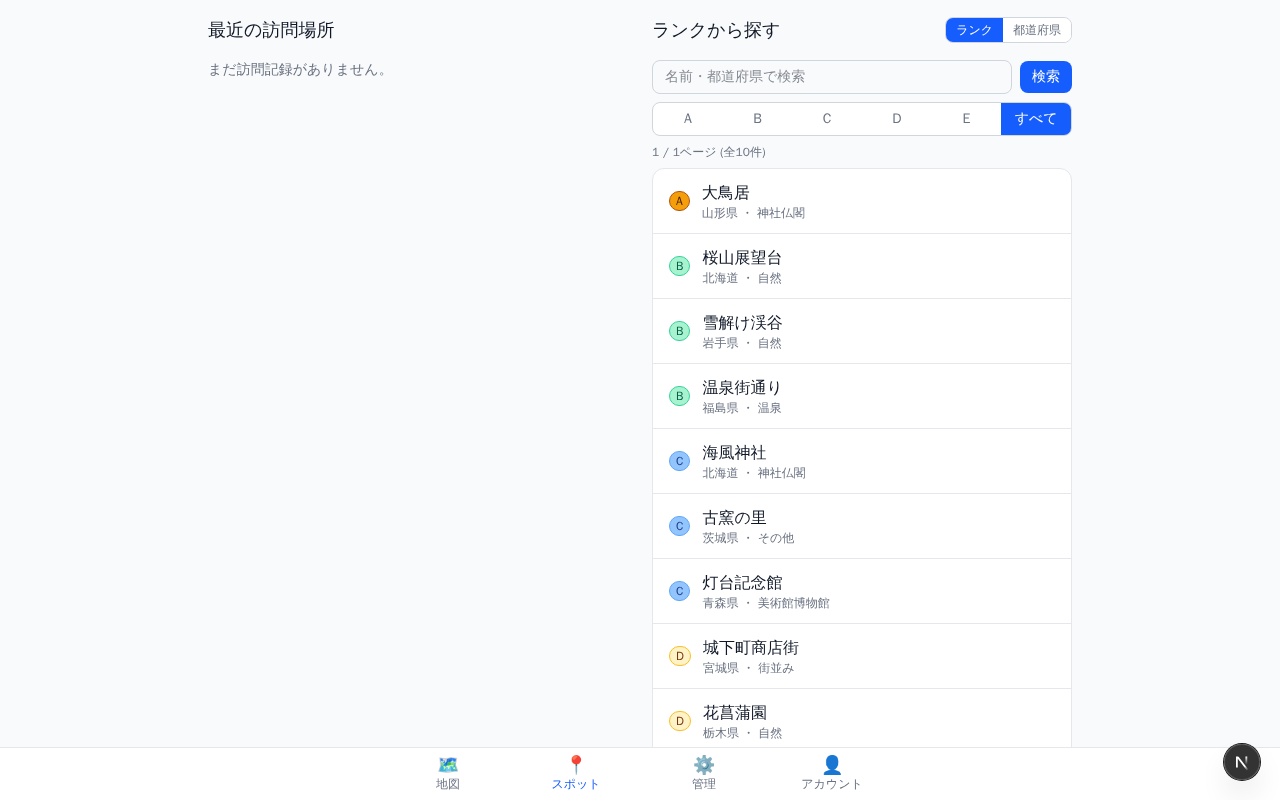
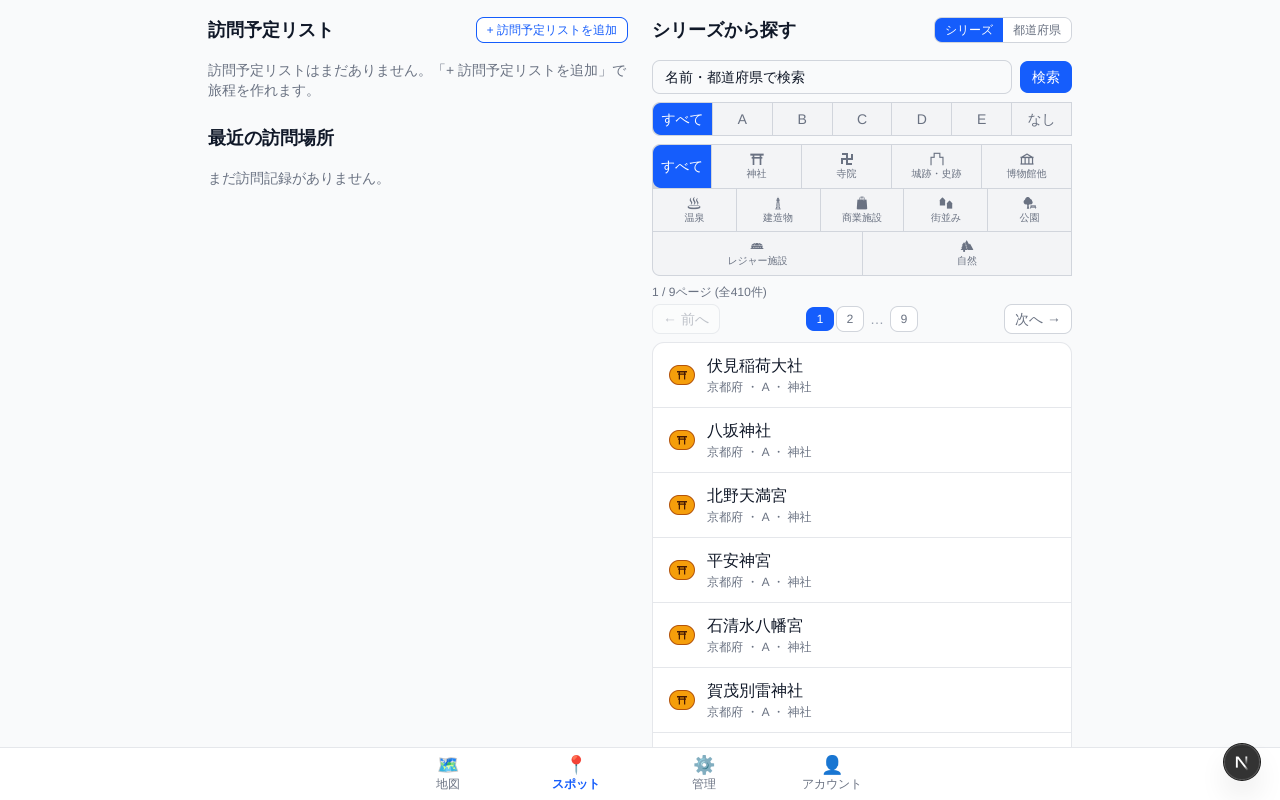
README のスクリーンショットを撮り直す
見た目が大きく変わっていたので全 5 枚を差し替え、訪問記録の画面を 1 枚足した。
トップは「地図」と「訪問記録」を横並びにする —— このアプリの主役は訪問記録で、
地図はその入口だから。

地図はクラスタを無効にして 1 件ずつのピンで撮ってある。ランクで大きさと色が、
シリーズでピンの中のアイコンが決まることが 1 枚で読み取れる。

サンプルデータは travel-log-data の観光地から京都府の 410 件。アカウントは
example.com の架空アドレス、メモも作り物(実在の個人情報は入れていない)。

diff --git a/README.md b/README.md
@@ -2,7 +2,11 @@
 
 観光地への「訪問記録」を主役にしたアプリ。
 
-![地図画面](docs/images/01-map.png)
+| 地図 | 訪問記録 |
+|---|---|
+| ![地図画面](docs/images/01-map.png) | ![訪問記録](docs/images/04-visit.png) |
+
+ランクで大きさと色が、シリーズでピンの中のアイコンが決まる。訪問記録は日時・写真・メモを残せる。
 
 ## 主な機能
 
@@ -21,13 +25,17 @@
 
 ## スクリーンショット
 
-| 地図 | スポット一覧 |
+| 地図 | 訪問記録 |
 |---|---|
-| ![地図画面](docs/images/01-map.png) | ![スポット一覧](docs/images/02-spots.png) |
+| ![地図画面](docs/images/01-map.png) | ![訪問記録](docs/images/04-visit.png) |
 
-| スポット詳細 | 管理画面 |
+| スポット一覧 | スポット詳細 |
 |---|---|
-| ![スポット詳細モーダル](docs/images/02b-spot-detail.png) | ![管理画面](docs/images/03-admin.png) |
+| ![スポット一覧](docs/images/02-spots.png) | ![スポット詳細モーダル](docs/images/02b-spot-detail.png) |
+
+| 管理画面 | |
+|---|---|
+| ![管理画面](docs/images/03-admin.png) | |
 
 *スクリーンショットはすべてサンプルデータです。*
 
